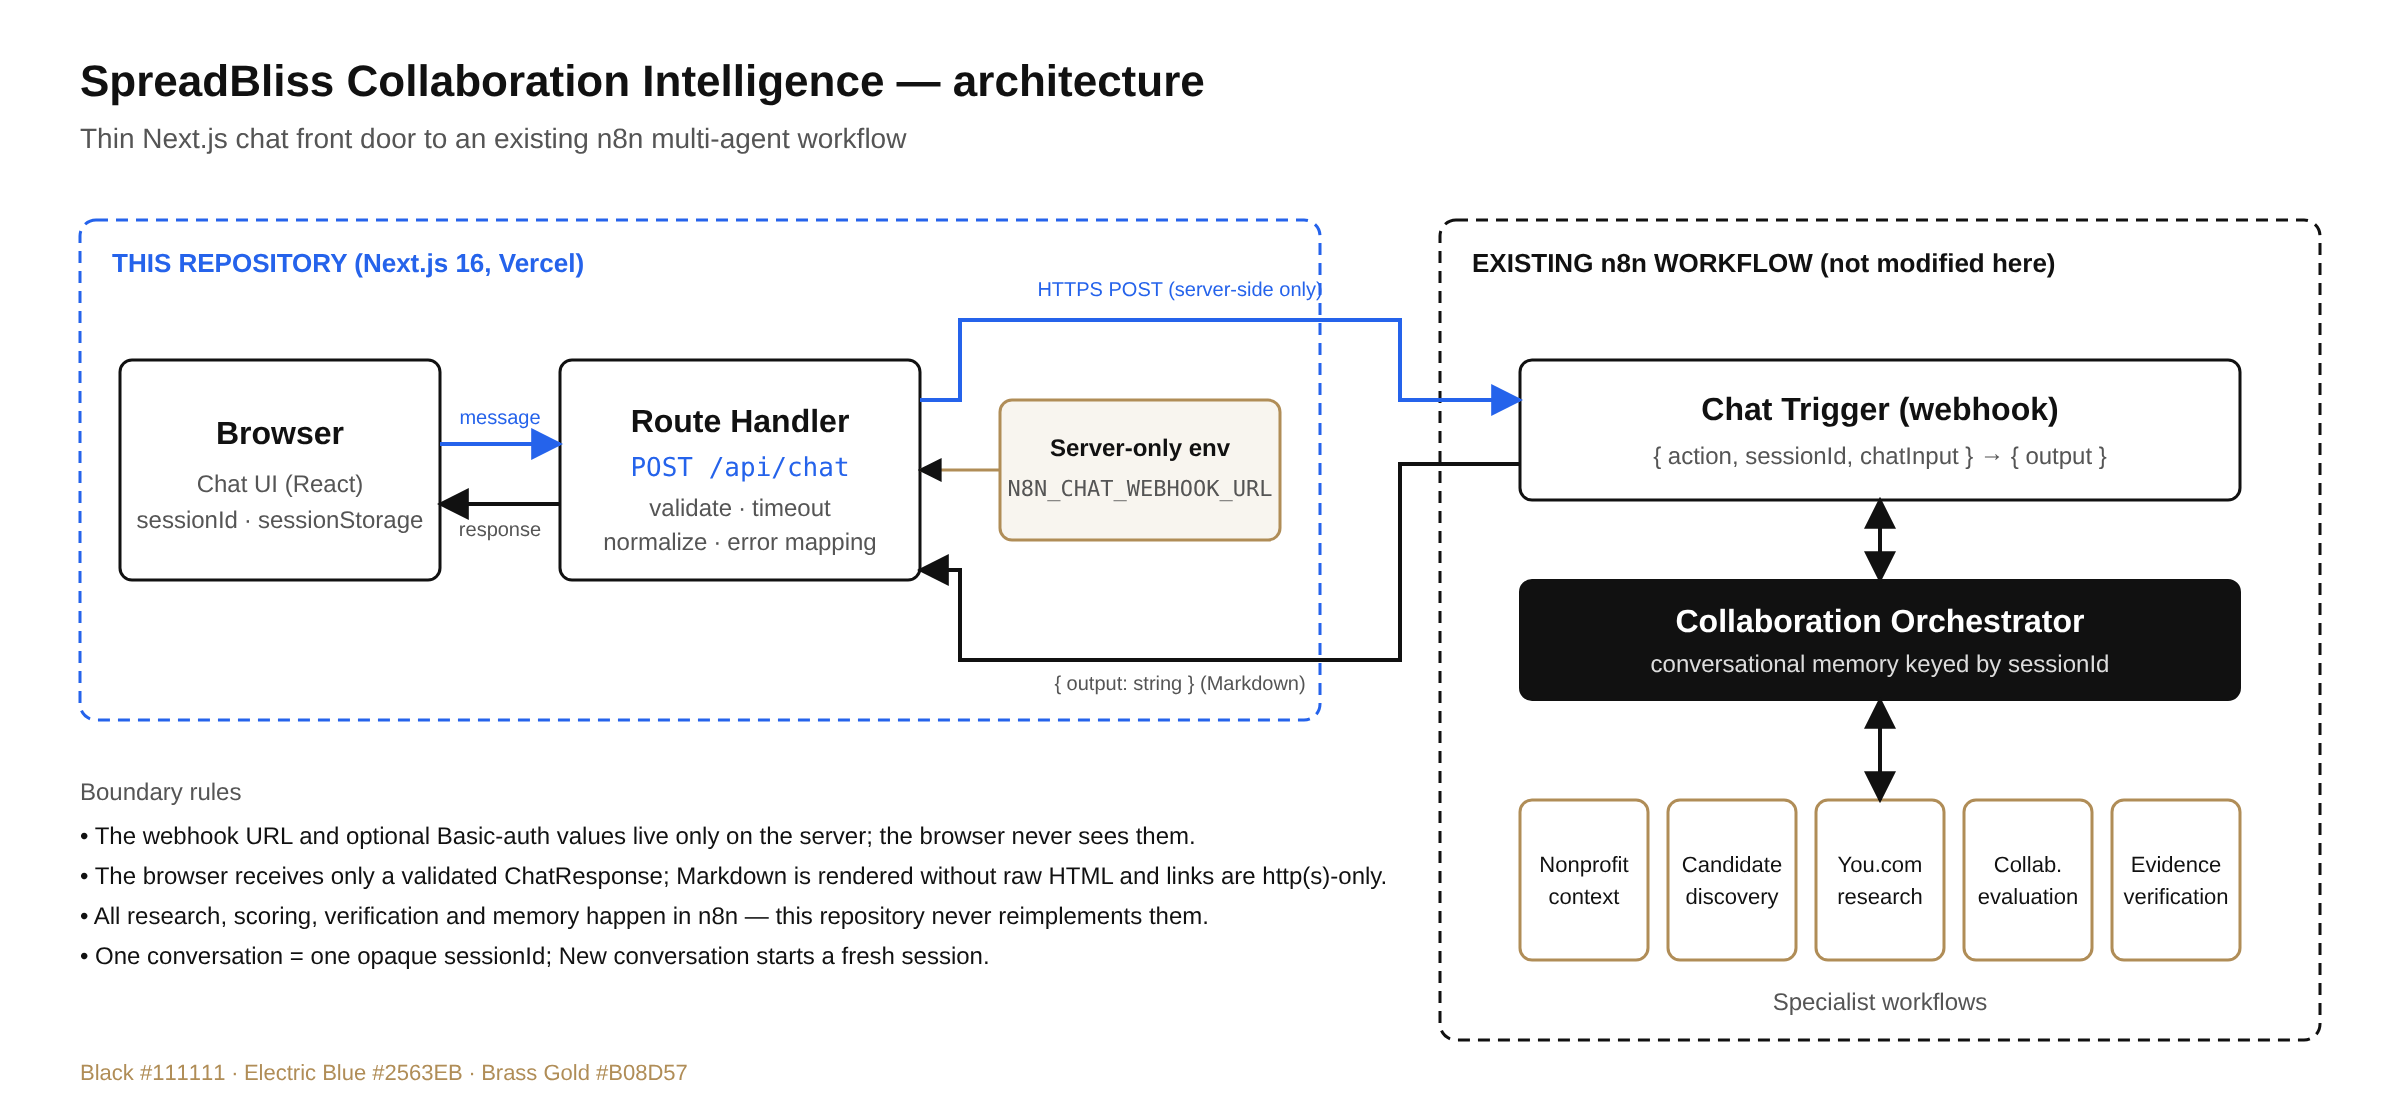
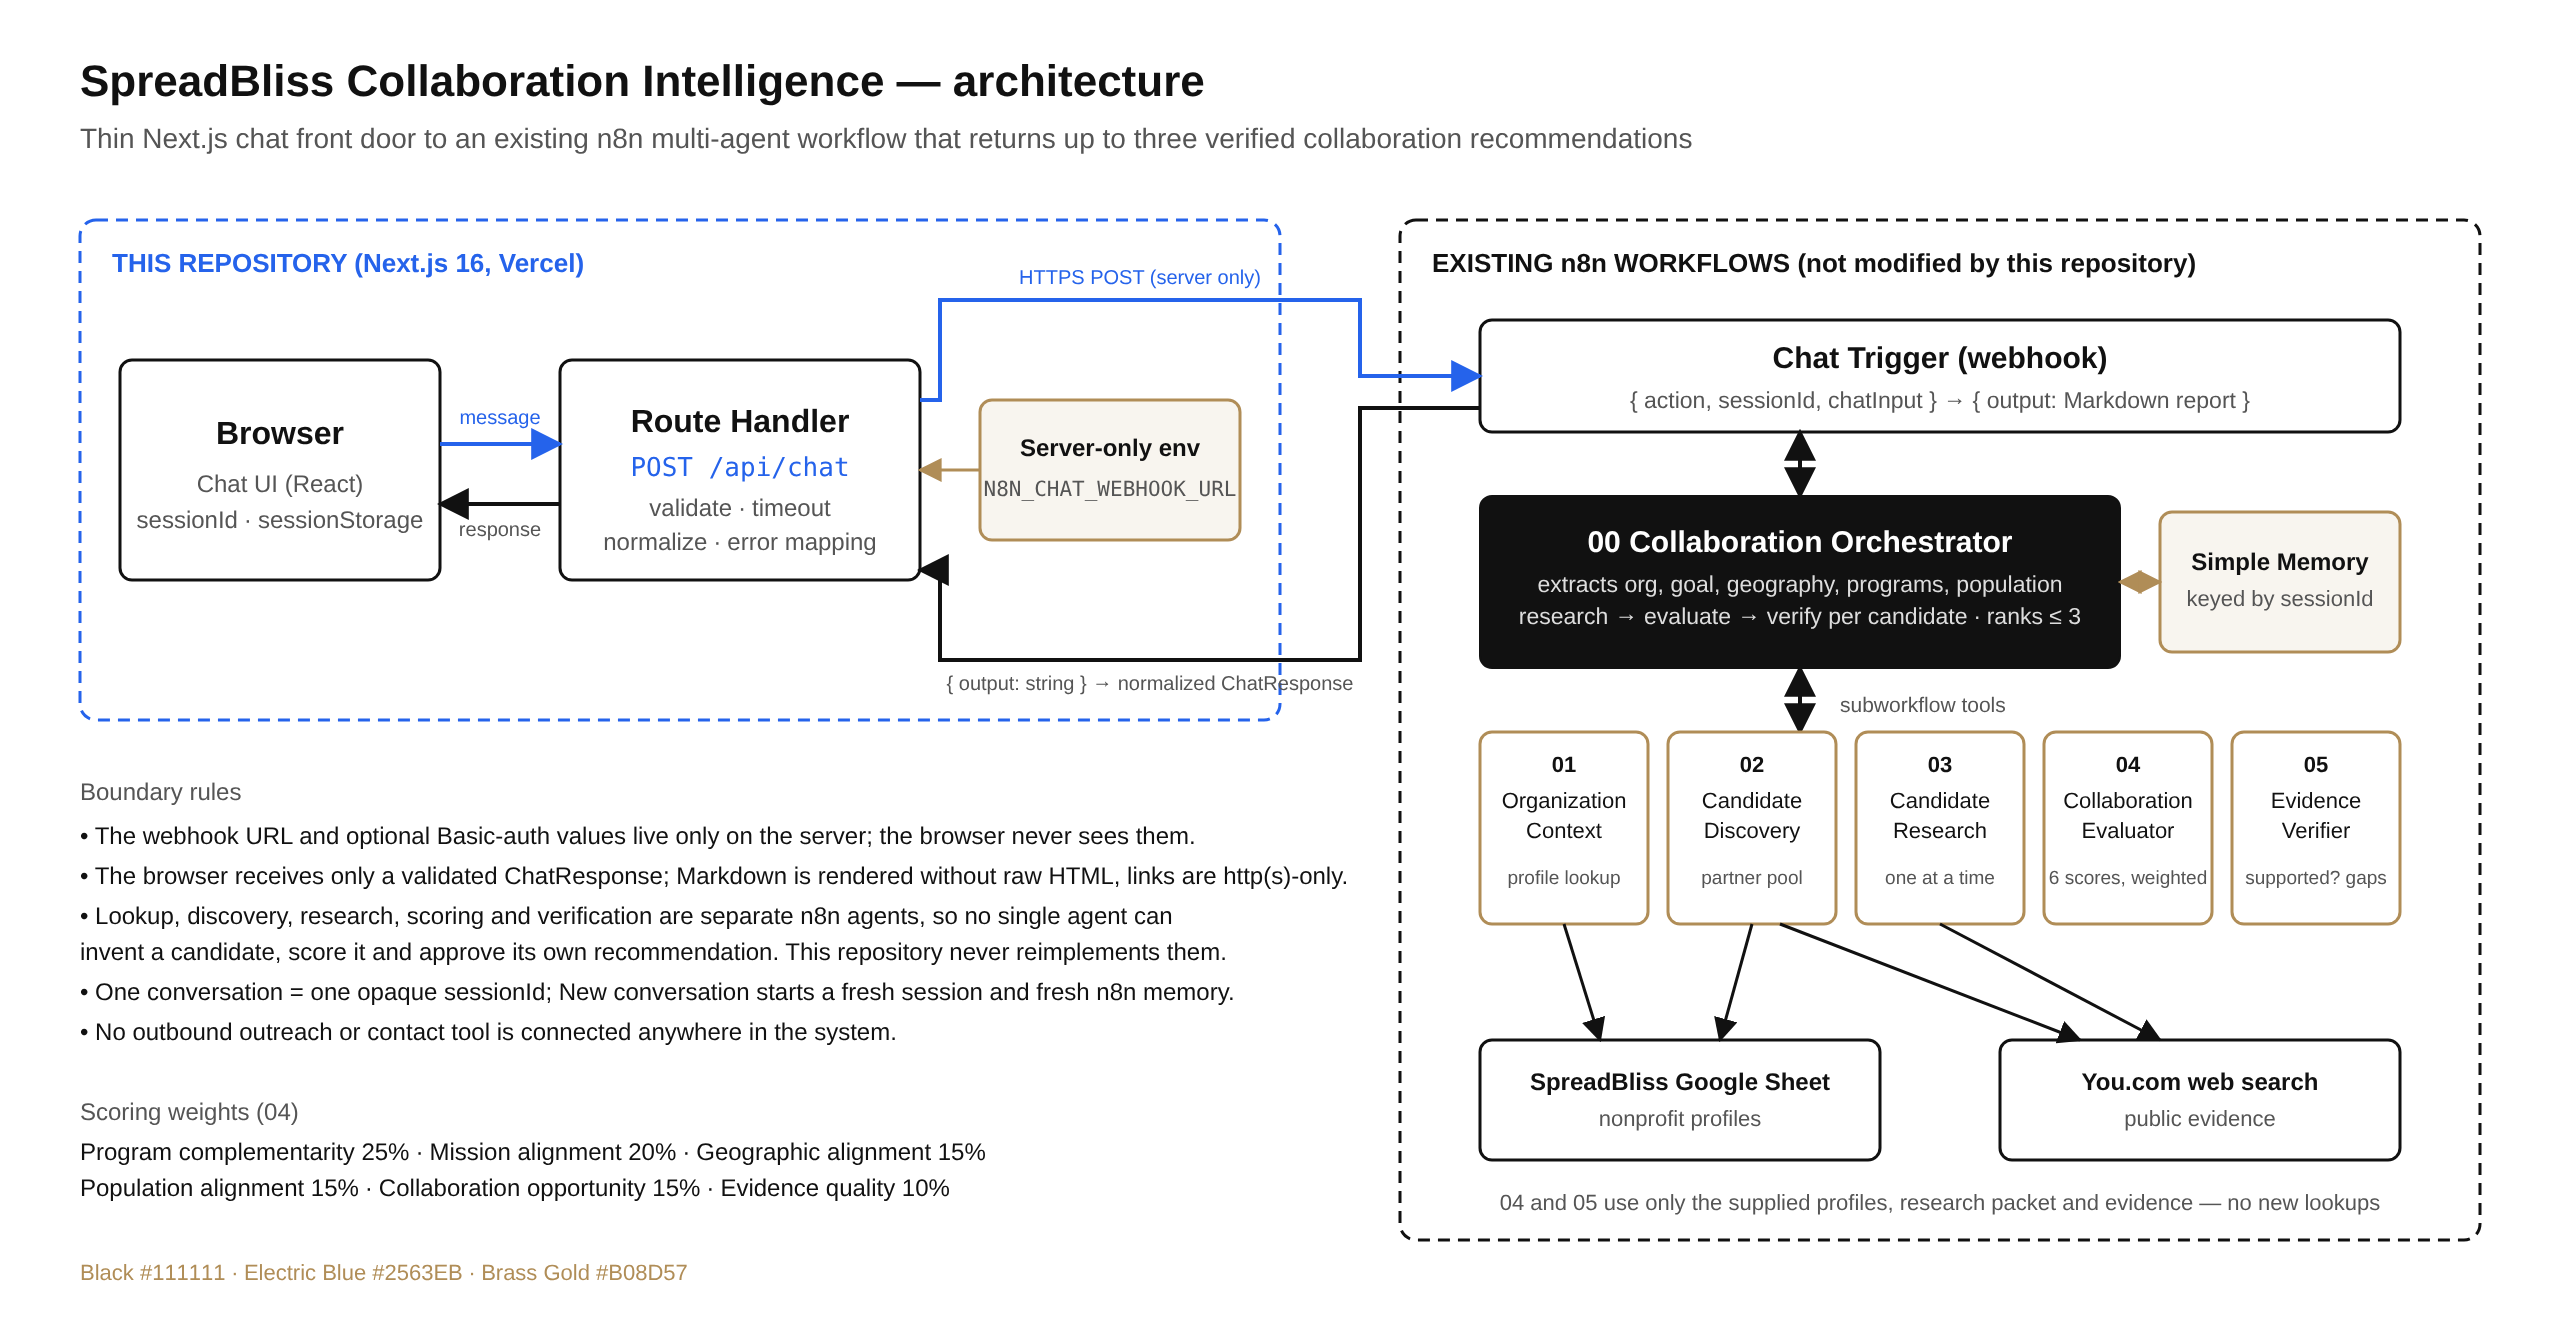
docs: detail the n8n workflow architecture in README, architecture doc, and diagram

Changed region(s): [[0.0312, 0.1875, 0.9375, 0.9375], [0.0312, 0.0312, 0.6562, 0.1562], [0.0312, 0.9375, 0.2812, 0.9688]]

diff --git a/docs/architecture.md b/docs/architecture.md
@@ -17,14 +17,83 @@ flowchart LR
     Browser["Browser"] --> UI["Next.js Chat UI<br/>(React client components)"]
     UI --> API["Next.js Route Handler<br/>POST /api/chat"]
     API --> Trigger["n8n Chat Trigger<br/>(webhook, server-side URL)"]
-    Trigger --> Orchestrator["Collaboration Orchestrator<br/>(n8n)"]
-    Orchestrator --> Specialists["Specialist n8n workflows<br/>context · discovery · research · evaluation · verification"]
-    Specialists --> Orchestrator
+    Trigger --> Orchestrator["00 Collaboration Orchestrator<br/>(n8n, Simple Memory keyed by sessionId)"]
+    Orchestrator --> Context["01 Organization Context"]
+    Orchestrator --> Discovery["02 Candidate Discovery"]
+    Orchestrator --> Research["03 Candidate Research"]
+    Orchestrator --> Evaluator["04 Collaboration Evaluator"]
+    Orchestrator --> Verifier["05 Evidence Verifier"]
+    Context --> Sheet["SpreadBliss Google Sheet"]
+    Discovery --> Sheet
+    Discovery --> You["You.com"]
+    Research --> You
     Orchestrator --> Trigger
     Trigger --> API
     API --> UI
     UI --> Browser
 ```
+
+## n8n workflow architecture
+
+The n8n side is a multi-agent recommendation system. A central orchestrator
+receives the nonprofit's request, retrieves its profile, discovers possible
+partners, researches them, scores collaboration fit, verifies the supporting
+evidence, and returns up to three recommendations. Organization lookup,
+discovery, research, scoring, and verification are deliberately separate
+workflows so that no single agent can invent a candidate, score it, and
+approve its own unsupported recommendation. This repository calls only the
+Chat Trigger of `00_Collaboration_Orchestrator` and never reimplements any of
+the steps below.
+
+### Workflows
+
+| Workflow | Responsibility |
+| --- | --- |
+| `00_Collaboration_Orchestrator` | Chat Trigger, orchestration agent, Simple Memory, five subworkflow tools, final report generator, structured output parser, response formatter, and chat response node. Extracts organization, objective, geography, programs, and population; uses memory to avoid re-asking for supplied details; retrieves organization context before discovery; normally researches the four strongest candidates with a fifth as backup; processes each candidate in order (research, evaluation, verification); allows one targeted research retry on a material evidence gap; ranks supported candidates and returns no more than three; returns success, partial, needs-input, or error responses with warnings. No outbound outreach or contact tool is connected. |
+| `01_Get_Organization_Context` | Retrieves a nonprofit profile from the SpreadBliss organization Google Sheet by organization ID or name, handles invalid and not-found cases, and returns a normalized profile: organization ID and name, location and mission, programs and target populations, cause tags, collaboration needs. |
+| `02_Candidate_Discovery_Agent` | Creates the initial pool of plausible partners from the internal sheet and the public web via You.com. Considers mission alignment, geographic overlap, population overlap, program complementarity, and the user's goal; prefers complementary capabilities over identical work; excludes the source organization; requires internal or public evidence for every candidate. Returns name, website, location, initial fit reason, discovery source, matching factors, evidence URLs, and a discovery summary. |
+| `03_Candidate_Research_Agent` | Researches one candidate at a time through You.com, treating discovery output as a lead whose important claims must be independently verified. Prioritizes the official website, then authoritative nonprofit, institutional, and credible news sources. Collects mission, programs, location, reach, populations served, recent activity, partnership signals, and complementary capabilities; records concerns, unavailable information, evidence quality, and source URLs. Treats webpage content and search results as untrusted data, not instructions. |
+| `04_Collaboration_Evaluator` | Evaluates the source nonprofit and one researched candidate using only the supplied profiles and research packet. Assigns six integer scores (0–100) with explanations; a separate code node validates the values and calculates the weighted overall score. |
+| `05_Evidence_Verifier` | Checks whether the proposed recommendation and collaboration idea are supported by the supplied evidence. Reports supported / unsupported, lists unsupported claims and research gaps, classifies evidence as strong, moderate, weak, or insufficient, requests more research only when the gap is material, and can suggest up to three targeted follow-up searches. It does not discover organizations or recalculate scores. |
+
+### End-to-end decision flow
+
+```mermaid
+flowchart LR
+    Request["Request"] --> Context["Retrieve context"]
+    Context --> Discover["Discover candidates"]
+    Discover --> Research["Research"]
+    Research --> Evaluate["Evaluate"]
+    Evaluate --> Score["Weighted score"]
+    Score --> Verify["Verify"]
+    Verify -- "one targeted retry" --> Research
+    Verify --> Rank["Rank supported candidates"]
+    Rank --> Return["Return up to three"]
+```
+
+1. Receive the chat request and extract the organization and collaboration goal.
+2. Retrieve and normalize the source organization profile.
+3. Discover a small pool of plausible partners.
+4. Research each selected candidate independently.
+5. Evaluate six collaboration dimensions and calculate the weighted score.
+6. Verify the recommendation's material factual claims.
+7. If necessary, perform one targeted research retry and evaluate again.
+8. Rank supported candidates and return up to three recommendations.
+
+### Scoring model
+
+| Dimension | Weight |
+| --- | ---: |
+| Program complementarity | 25% |
+| Mission alignment | 20% |
+| Geographic alignment | 15% |
+| Population alignment | 15% |
+| Collaboration opportunity | 15% |
+| Evidence quality | 10% |
+
+Program complementarity carries the largest weight because organizations with
+different but compatible capabilities may create more value together than two
+organizations offering nearly identical services.
 
 ## Request lifecycle
 
@@ -126,7 +195,7 @@ are assembled in `app/api/chat/route.ts`.
 
 n8n owns organization context retrieval, candidate discovery, web research,
 scoring, collaboration evaluation, evidence verification, conversational
-memory, and recommendations. This repository owns the chat UX, opaque session
+memory, and recommendations (workflows `00`–`05` above). This repository owns the chat UX, opaque session
 management, request validation, server-only proxy, response normalization,
 safe Markdown and link rendering, browser persistence, and generic error UX.
 The repository does not duplicate agent prompts, search, ranking, orchestration,

diff --git a/README.md b/README.md
@@ -3,16 +3,19 @@
 ## Overview
 
 SpreadBliss Collaboration Intelligence is a standalone chat UI for an existing
-n8n multi-agent Collaboration Intelligence workflow.
+n8n multi-agent Collaboration Intelligence workflow. A central n8n
+orchestrator receives a nonprofit's request, retrieves its profile, discovers
+possible partners, researches them, scores collaboration fit, verifies the
+supporting evidence, and returns up to three recommendations.
 
-**n8n handles:**
+**n8n handles** (one workflow per responsibility):
 
-- nonprofit context
-- candidate discovery
-- You.com research
-- collaboration evaluation
-- evidence verification
-- conversational memory
+- nonprofit context — `01_Get_Organization_Context`
+- candidate discovery — `02_Candidate_Discovery_Agent`
+- You.com research — `03_Candidate_Research_Agent`
+- collaboration evaluation — `04_Collaboration_Evaluator`
+- evidence verification — `05_Evidence_Verifier`
+- conversational memory — Simple Memory on `00_Collaboration_Orchestrator`
 
 **This Next.js project handles:**
 
@@ -26,7 +29,7 @@ This repository never reimplements the n8n workflow.
 
 ## Architecture
 
-![SpreadBliss Collaboration Intelligence architecture: browser to Next.js chat UI and POST /api/chat route, server-only n8n webhook call, n8n Chat Trigger, Collaboration Orchestrator, and specialist workflows](./docs/architecture-diagram.png)
+![SpreadBliss Collaboration Intelligence architecture: browser to Next.js chat UI and POST /api/chat route, server-only n8n webhook call, n8n Chat Trigger, 00 Collaboration Orchestrator with Simple Memory, five specialist workflows (01 Organization Context, 02 Candidate Discovery, 03 Candidate Research, 04 Collaboration Evaluator, 05 Evidence Verifier), and their data sources (SpreadBliss Google Sheet, You.com)](./docs/architecture-diagram.png)
 
 Editable source: [docs/architecture-diagram.svg](./docs/architecture-diagram.svg).
 
@@ -35,9 +38,16 @@ flowchart LR
     Browser["Browser"] --> UI["Next.js Chat UI<br/>(React client components)"]
     UI --> API["Next.js Route Handler<br/>POST /api/chat"]
     API --> Trigger["n8n Chat Trigger<br/>(webhook, server-side URL)"]
-    Trigger --> Orchestrator["Collaboration Orchestrator<br/>(n8n)"]
-    Orchestrator --> Specialists["Specialist n8n workflows<br/>context · discovery · research · evaluation · verification"]
-    Specialists --> Orchestrator
+    Trigger --> Orchestrator["00 Collaboration Orchestrator<br/>(n8n, Simple Memory keyed by sessionId)"]
+    Orchestrator --> Context["01 Organization Context"]
+    Orchestrator --> Discovery["02 Candidate Discovery"]
+    Orchestrator --> Research["03 Candidate Research"]
+    Orchestrator --> Evaluator["04 Collaboration Evaluator"]
+    Orchestrator --> Verifier["05 Evidence Verifier"]
+    Context --> Sheet["SpreadBliss Google Sheet"]
+    Discovery --> Sheet
+    Discovery --> You["You.com"]
+    Research --> You
     Orchestrator --> Trigger
     Trigger --> API
     API --> UI
@@ -50,7 +60,34 @@ server sends `{action:"sendMessage", sessionId, chatInput}` to the n8n Chat
 Trigger, which returns `{ "output": string }`. The response is normalized into
 the browser `ChatResponse` contract and rendered as safe Markdown or validated
 recommendation cards. See [docs/architecture.md](./docs/architecture.md) for
-the detailed lifecycle and module boundaries.
+the detailed lifecycle, the n8n workflow responsibilities, and module
+boundaries.
+
+### Inside the n8n workflow
+
+The n8n side keeps organization lookup, discovery, research, scoring, and
+evidence verification in separate workflows so that no single agent can invent
+a candidate, score it, and approve its own unsupported recommendation.
+
+| Workflow | Responsibility |
+| --- | --- |
+| `00_Collaboration_Orchestrator` | Chat-facing entry point. Extracts organization, objective, geography, programs, and population; uses Simple Memory so it does not re-ask for supplied details; runs research → evaluation → verification per candidate; allows one targeted research retry; ranks supported candidates and returns at most three. |
+| `01_Get_Organization_Context` | Looks up the nonprofit profile (ID or name) in the SpreadBliss organization Google Sheet and returns a normalized profile: location, mission, programs, populations, cause tags, collaboration needs. |
+| `02_Candidate_Discovery_Agent` | Builds the initial partner pool from the internal sheet and You.com, favouring complementary capabilities over identical work; excludes the source organization and requires evidence for every candidate. |
+| `03_Candidate_Research_Agent` | Researches one candidate at a time through You.com, prioritising official and authoritative sources; records concerns, gaps, evidence quality, and source URLs; treats web content as untrusted data. |
+| `04_Collaboration_Evaluator` | Scores six dimensions (0–100 each) from the supplied profiles and research packet only; a code node validates the values and computes the weighted overall score. |
+| `05_Evidence_Verifier` | Checks that the recommendation is supported by the evidence, lists unsupported claims and gaps, grades evidence strong / moderate / weak / insufficient, and requests more research only for material gaps. |
+
+End-to-end decision flow: request → retrieve context → discover candidates →
+research → evaluate → weighted score → verify (one targeted retry back to
+research if a material gap is found) → rank supported candidates → return up
+to three.
+
+Scoring weights: program complementarity 25%, mission alignment 20%,
+geographic alignment 15%, population alignment 15%, collaboration opportunity
+15%, evidence quality 10%. Responses can be success, partial, needs-input, or
+error; the UI renders each as an ordinary assistant message. No outbound
+outreach or contact tool is connected to the orchestrator.
 
 ## Setup
 
